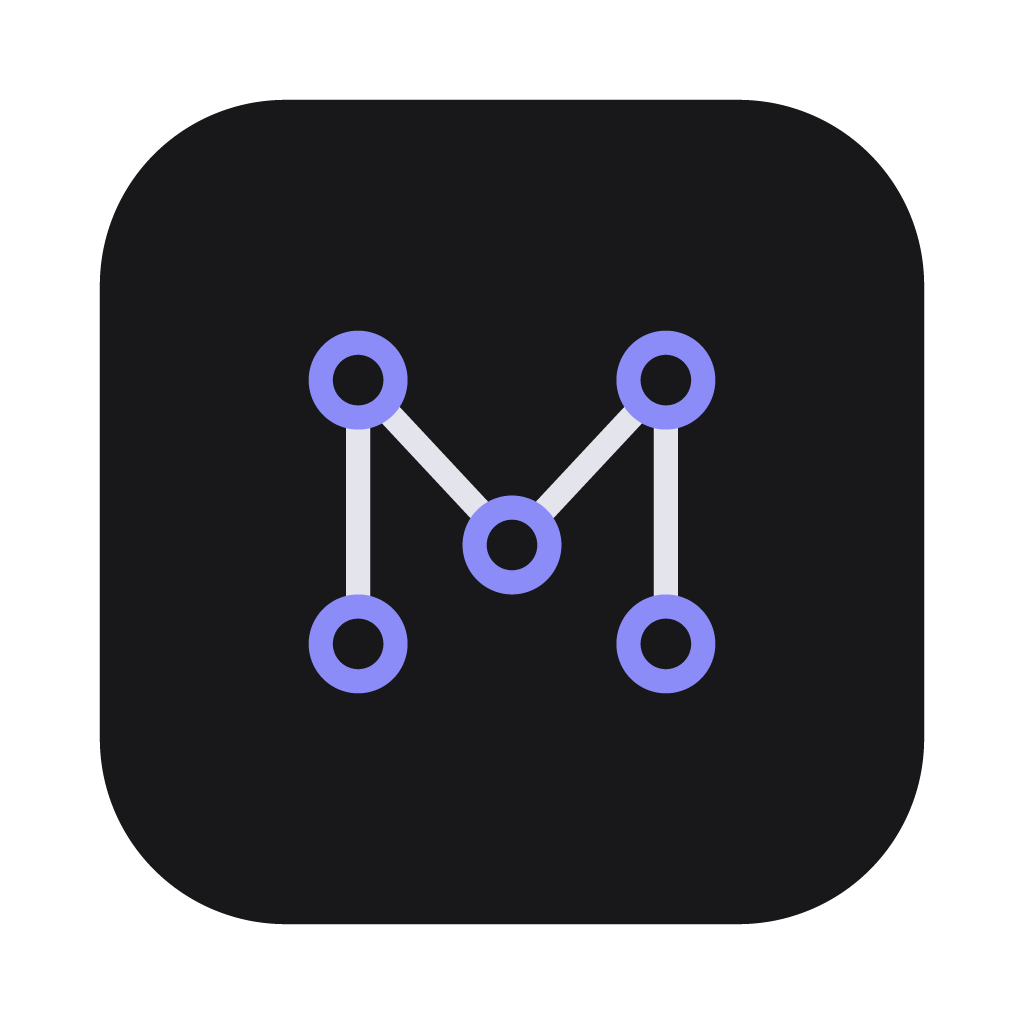
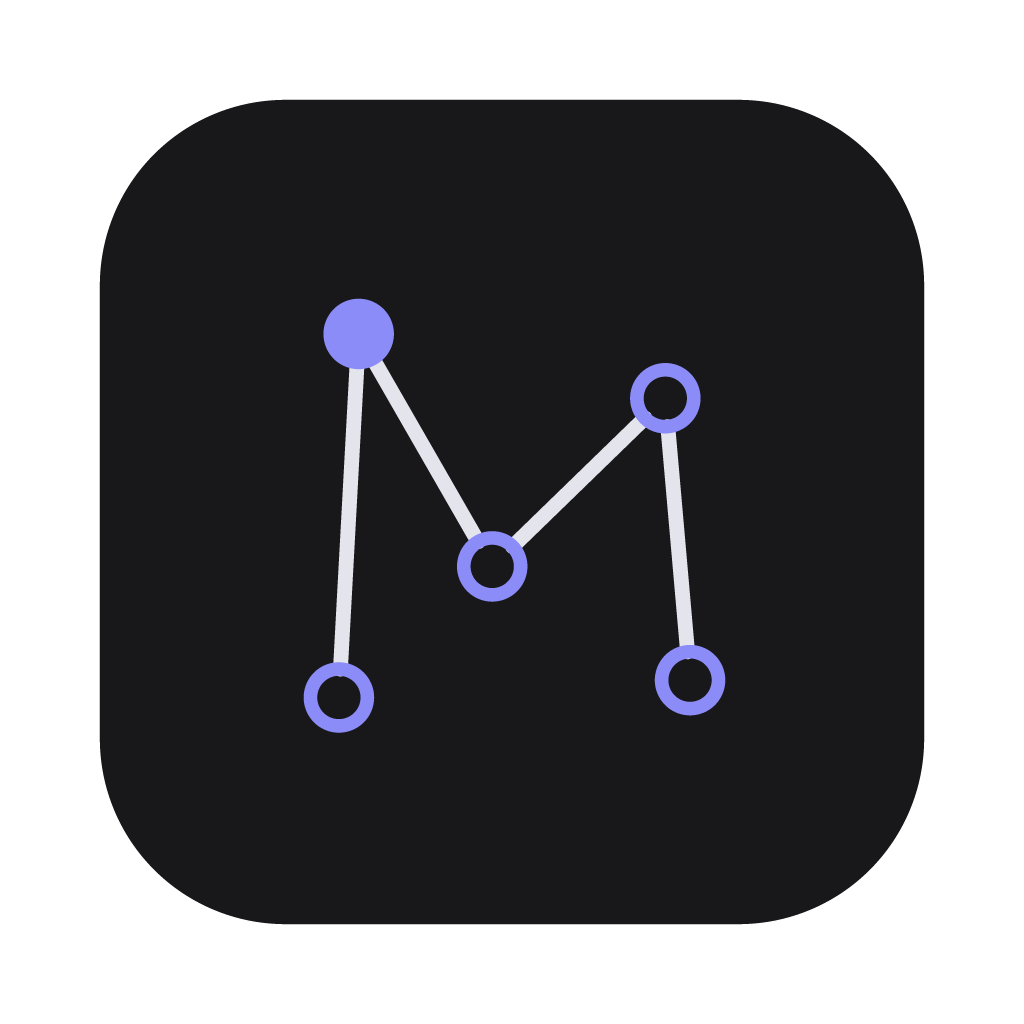
Brand: finer, asymmetric node-and-line M
Thinner strokes and rings, a taller left peak, a lower right peak and a
valley pulled left; the first node is solid as the lead. Small renditions
(16-32px, menu bar, sidebar, favicon) scale strokes up to stay legible.

Changed region(s): [[0.4062, 0.3125, 0.7188, 0.7188], [0.2812, 0.2812, 0.4062, 0.7188]]

diff --git a/apps/desktop/scripts/icon.ts b/apps/desktop/scripts/icon.ts
@@ -1,5 +1,6 @@
-// Rasterize the Muster mark — an "M" of four strokes whose five joints are small
-// rings, like connected nodes — without an image service or native dependencies.
+// Rasterize the Muster mark — a loose, asymmetric "M" of four fine strokes whose
+// joints are small rings, the first one solid like a lead node — without an image
+// service or native dependencies.
 // Keep the geometry in sync with apps/web/src/components/MusterMark.tsx.
 import { mkdirSync, writeFileSync } from "node:fs";
 import { deflateSync } from "node:zlib";
@@ -9,9 +10,12 @@ mkdirSync(assets, { recursive: true });
 
 type Point = readonly [number, number];
 // Mark coordinates on a 24-unit grid, matching the web SVG viewBox.
-const NODES: readonly Point[] = [[5, 18], [5, 6], [12, 13.5], [19, 6], [19, 18]];
-const RING = 1.7;
-const STROKE = 1.1;
+const NODES: readonly Point[] = [[5, 19.5], [5.8, 4.8], [11.2, 14.2], [18.2, 7.4], [19.2, 18.8]];
+const LEAD = 1; // the solid node
+const RING = 1.15;
+// Hairline weights for the app icon; small sizes scale them up to stay visible.
+const LINE = 0.6;
+const RING_STROKE = 0.55;
 
 function crc32(data: Buffer) {
   let crc = 0xffffffff;
@@ -34,15 +38,16 @@ const SEGMENTS = NODES.slice(1).map((b, i) => {
   return [[a[0] + ux * RING, a[1] + uy * RING], [b[0] - ux * RING, b[1] - uy * RING]] as const;
 });
 /** Which part of the mark covers grid point p: "line", "ring" or nothing. */
-function mark(p: Point, stroke: number): "line" | "ring" | null {
-  if (NODES.some((n) => Math.abs(Math.hypot(p[0] - n[0], p[1] - n[1]) - RING) < stroke / 2)) return "ring";
-  if (SEGMENTS.some(([a, b]) => segment(p, a, b) < stroke / 2)) return "line";
+function mark(p: Point, weight: number): "line" | "ring" | null {
+  const ring = RING_STROKE * weight;
+  if (NODES.some((n, i) => { const d = Math.hypot(p[0] - n[0], p[1] - n[1]); return i === LEAD ? d < RING + ring / 2 : Math.abs(d - RING) < ring / 2; })) return "ring";
+  if (SEGMENTS.some(([a, b]) => segment(p, a, b) < (LINE * weight) / 2)) return "line";
   return null;
 }
 
 type Rgb = readonly [number, number, number];
 const TILE: Rgb = [24, 24, 27];
-const LINE: Rgb = [228, 228, 236];
+const STROKE_COLOR: Rgb = [228, 228, 236];
 const NODE: Rgb = [139, 140, 248];
 
 function png(size: number, kind: "app" | "tray") {
@@ -51,8 +56,9 @@ function png(size: number, kind: "app" | "tray") {
   // App icons follow the macOS grid: an 824/1024 rounded tile with the mark inset.
   const tile = kind === "app" ? 0.805 : 1;
   const inset = (1 - tile) / 2;
-  const scale = kind === "app" ? 0.64 : 1; // mark width relative to the tile
-  const stroke = kind === "tray" ? STROKE * 1.6 : STROKE;
+  const scale = kind === "app" ? 0.72 : 1; // mark width relative to the tile
+  // Keep strokes about a pixel wide or more at small sizes (16px icons, menu bar).
+  const weight = Math.max(1, (24 / (size * (kind === "app" ? tile * scale : 1))) / LINE * 0.9);
   for (let y = 0; y < size; y++) for (let x = 0; x < size; x++) {
     let a = 0, r = 0, g = 0, b = 0;
     for (let sy = 0; sy < samples; sy++) for (let sx = 0; sx < samples; sx++) {
@@ -60,8 +66,8 @@ function png(size: number, kind: "app" | "tray") {
       const tx = (px - inset) / tile, ty = (py - inset) / tile;
       const inTile = kind === "app" && Math.hypot(Math.max(0, Math.abs(tx - 0.5) - 0.275), Math.max(0, Math.abs(ty - 0.5) - 0.275)) < 0.225;
       const grid: Point = [12 + ((tx - 0.5) / scale) * 24, 12 + ((ty - 0.5) / scale) * 24];
-      const part = kind === "app" && !inTile ? null : mark(grid, stroke);
-      const color = kind === "tray" ? [0, 0, 0] as Rgb : part === "ring" ? NODE : part === "line" ? LINE : TILE;
+      const part = kind === "app" && !inTile ? null : mark(grid, weight);
+      const color = kind === "tray" ? [0, 0, 0] as Rgb : part === "ring" ? NODE : part === "line" ? STROKE_COLOR : TILE;
       if (part || inTile) { a += 255; r += color[0]; g += color[1]; b += color[2]; }
     }
     const offset = y * (size * 4 + 1) + 1 + x * 4;

diff --git a/apps/web/src/components/MusterMark.tsx b/apps/web/src/components/MusterMark.tsx
@@ -1,7 +1,9 @@
-// The Muster mark: an "M" of four strokes whose joints are small rings, like
-// connected nodes. Keep the geometry in sync with apps/desktop/scripts/icon.ts.
-const NODES = [[5, 18], [5, 6], [12, 13.5], [19, 6], [19, 18]] as const;
-const RING = 1.7;
+// The Muster mark: a loose, asymmetric "M" of four strokes whose joints are small
+// rings, the first one solid like a lead node. Keep the geometry in sync with
+// apps/desktop/scripts/icon.ts (strokes are heavier here for 16–18px rendering).
+const NODES = [[5, 19.5], [5.8, 4.8], [11.2, 14.2], [18.2, 7.4], [19.2, 18.8]] as const;
+const LEAD = 1;
+const RING = 1.5;
 // Strokes stop at the ring edge so each joint reads as a node.
 const SEGMENTS = NODES.slice(1).map((b, i) => {
   const a = NODES[i]!; const length = Math.hypot(b[0] - a[0], b[1] - a[1]);
@@ -11,9 +13,9 @@ const SEGMENTS = NODES.slice(1).map((b, i) => {
 
 export function MusterMark({ size = 16 }: { size?: number }) {
   return (
-    <svg className="muster-mark" width={size} height={size} viewBox="0 0 24 24" fill="none" strokeWidth={1.6} strokeLinecap="round" aria-hidden="true">
+    <svg className="muster-mark" width={size} height={size} viewBox="0 0 24 24" fill="none" strokeWidth={1.25} strokeLinecap="round" aria-hidden="true">
       <path d={SEGMENTS} stroke="currentColor" />
-      {NODES.map(([cx, cy]) => <circle key={`${cx}-${cy}`} cx={cx} cy={cy} r={RING} stroke="var(--accent)" />)}
+      {NODES.map(([cx, cy], i) => <circle key={`${cx}-${cy}`} cx={cx} cy={cy} r={RING} stroke="var(--accent)" fill={i === LEAD ? "var(--accent)" : "none"} />)}
     </svg>
   );
 }
